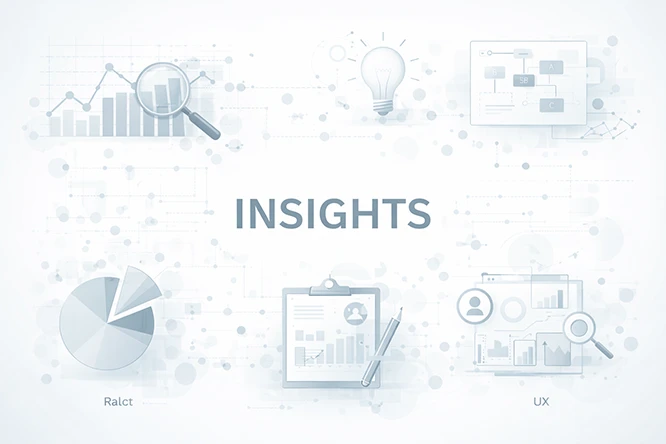
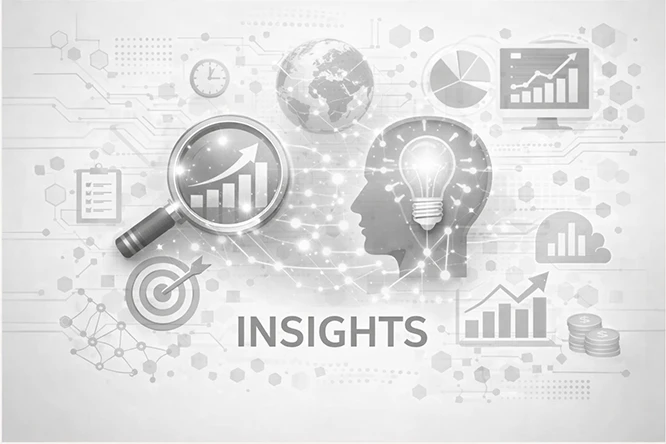
Thematic image modifications with layout updates with ZP

diff --git a/methods.html b/methods.html
@@ -52,7 +52,7 @@
 <section class="py-3 py-lg-5">
 <div class="container">
 <div class="row g-4 align-items-start">
-  <div class="col-lg-5">
+  <div class="col-lg-6">
     <p class="section-label mb-2">Methods that scale</p>
     <h1 class="hero-title mb-3">Methods that turn complexity into clarity.</h1>
     <p class="hero-copy mb-3">
@@ -62,7 +62,7 @@
     Explore
     </a>
   </div>
-  <div class="col-lg-7">
+  <div class="col-lg-6">
     <div class="hero-media">
       <img
         src="/assets/images/case-studies/ux-cs-methods.webp"

diff --git a/insights.html b/insights.html
@@ -52,7 +52,7 @@
 <section class="py-3 py-lg-5">
 <div class="container">
 <div class="row g-4 align-items-start">
-  <div class="col-lg-7">
+  <div class="col-lg-6">
     <p class="section-label mb-2">Insights.</p>
     <h1 class="hero-title mb-3">Insights on design and decision-making.</h1>
     <p class="hero-copy mb-3">
@@ -62,7 +62,7 @@
     Explore
     </a>
   </div>
-  <div class="col-lg-5">
+  <div class="col-lg-6">
     <div class="hero-media">
       <img
         src="/assets/images/case-studies/ux-cs-insights.webp"
